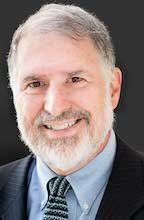
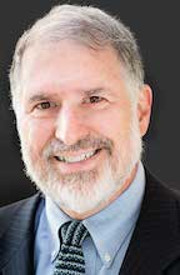
add pictures, resize some to 180hrz, change png to jpg

diff --git a/meetings.md b/meetings.md
@@ -14,7 +14,7 @@ Join the CENTRA Kickoff Meeting [Forum Discussions](https://groups.google.com/fo
 
 ## Kickoff meeting attendees
 
-<img src="/img/members/alejandroballado.png" class="member-image">
+<img src="/img/members/alejandroballado.jpg" class="member-image">
 <span class="member-heading">
 <strong>Alejandro H. Ballado, Jr.</strong><br>
 Mapua Institute of Technology<br>
@@ -35,13 +35,16 @@ Research Interests:</span> biological museum data processing, biodiversity model
 
 I originally trained as a tree breeding systems biologist and studied in a Costa Rican rainforest. In the mid-1980s, I shifted career direction to the emerging field of biodiversity informatics with an emphasis on museum collection computerization and networked data communications. Today, I guide a biodiversity software engineering group within the University of Kansas Biodiversity Institute.  We produce and support open-source 'Specify' software for computerizing biological collections (specifysoftware.org).  I also direct the Lifemapper Project which includes a high-performance computation platform and web services for species distribution and macroecological modeling, and for metacommunity phylogenetics (lifemapper.org).
 
+<img src="/img/members/linhuangchang.jpg" class="member-image">
 <span class="member-heading">
 <strong>Lin-huang Chang</strong><br>
 National Taichung Univ.<br>
 <a href="mailto:lchang@mail.ntcu.edu.tw">lchang@mail.ntcu.edu.tw</a><br>
 Research Interests:</span> Software-defined networking
 
-my researches are in SDN, Wireless sensor networks
+my researches are in SDN, Wireless sensor networks 
+
+<p> &nbsp;</p>
 
 <img src="/img/members/lingjyhchen.jpg" class="member-image">
 <span class="member-heading">
@@ -53,6 +56,7 @@ Research Interests:</span> participatory urban sensing; networked sensing system
 
 Dr. Ling-Jyh Chen received the B.Ed. degree in information and computer education from National Taiwan Normal University in 1998, and the M.S. and Ph.D. degrees in computer science from University of California at Los Angeles in 2002 and 2005 respectively. He joined the Institute of Information Science of Academia Sinica as Assistant Research Fellow in 2005, and became an Associate Research Fellow in 2011. His research interests are networked sensing systems, wireless and mobile networks, mobile computing, and social computing. His current research projects are comfort measuring system (CMS) of Taipei bus systems and micro-air pollution sensing systems (MAPS).
 
+<img src="/img/members/yjchen.jpg" class="member-image">
 <span class="member-heading">
 <strong>Yen-Jong Chen (陳彥仲)</strong><br>
 National Cheng Kung University (成功大學), Taiwan<br>
@@ -110,6 +114,7 @@ ACIS, University of Florida<br>
 
 I am a computer scientist and engineer teaching at the University of Florida. I am also the Director of the Advanced Computing and Information Systems (ACIS) lab. My research interests are in the areas of distributed computing, autonomic computing, computer architecture, parallel processing and fault-tolerant computing. I have also worked extensively in the development of e-science cyberinfrastructures, including PUNCH, Nanohub, FutureGrid and iDigBio. Currently, I am particularly interested in all aspects of software-defined systems and how they introduce new questions in the above-listed areas. Transnational contexts are of particular interest to me because they bring out the need for collaborative autonomics across software stacks that are deep and/or distributed among different administrative domains.
 
+<img src="/img/members/mingtaiha.jpg" class="member-image">
 <span class="member-heading">
 <strong>Ming Tai Ha</strong><br>
 Rutgers University<br>
@@ -138,6 +143,7 @@ Research Interests:</span> Computer vision, image processing, pattern recognitio
 
 I am a lecturer in Department of Computer Science, Faculty of Mathematics and Natural Sciences, Bogor Agricultural University (Institut Pertanian Bogor – IPB), West Java, Indonesia. My research research areas are digital image processing, computer vision, pattern recognition, computational intelligence and biodiversity informatics. Now I am head of Computational Intelligence laboratory and Computer Vision Research Group at Department of Computer Science IPB. Currently,  I have been working on Biodiversity Informatics (IPBiotics) development in IPB.
 
+<img src="/img/members/weichenghuang.jpg" class="member-image">
 <span class="member-heading">
 <strong>Weicheng Huang</strong><br>
 NCHC<br>
@@ -146,6 +152,7 @@ Research Interests:</span> big data
 
 I am Weicheng Huang, a local participant from NCHC. My specialty includes parallel processing, grid, cloud and currently big data.
 
+<img src="/img/members/julioibarra.jpg" class="member-image">
 <span class="member-heading">
 <strong>Julio Ibarra</strong><br>
 Florida International University<br>
@@ -157,7 +164,7 @@ As the Assistant Vice President for Technology Augmented Research at FIU, Dr. Ju
 
 Dr. Ibarra has been active in initiatives to advance networking and Internet technologies for the State of Florida. He is a board member of the Florida Lambda Rail, LLC – Florida’s research and education network initiative. He served on the Governor’s IT Florida Task Force subcommittee on Infrastructure and Technology Development, as a subject matter expert. He is co-author of the policy recommendation for the development of a Network Access Point (NAP) in South Florida to enhance the State’s e-Commerce opportunities with Latin America."
 
-<img src="/img/members/koheiichikawa.png" class="member-image">
+<img src="/img/members/koheiichikawa.jpg" class="member-image">
 <span class="member-heading">
 <strong>Kohei Ichikawa</strong><br>
 Nara Institute of Science and Technology<br>
@@ -167,7 +174,7 @@ Research Interests:</span> Distributed systems, Virtualization, Software Defined
 
 Kohei Ichikawa is an Associate Professor in the Graduate School of Information Science at Nara Institute of Science and Technology, Japan. His past research work involved the design and development of middleware and applications for Grid, virtualized infrastructures and Software Defined Network testbed. He currently works on the PRAGMA project, developing an international Software Defined Networking Testbed for use by the PRAGMA researchers.
 
-<img src="/img/members/shantenujha.png" class="member-image">
+<img src="/img/members/shantenujha.jpg" class="member-image">
 <span class="member-heading">
 <strong>Shantenu Jha</strong><br>
 Rutgers University<br>
@@ -180,6 +187,7 @@ University. His research interests lie at the triple point of High-performance d
 standards-driven and abstractions-based tools used to support
 large-scale science and engineering applications. He has won several awards at leading supercomputing conferences for the application of high-performance distributed computing to computational science. His research is supported by the US DOE and NSF, including the CAREER Award. He was appointed a Rutgers Chancellor Scholar in 2015. Away from work, Jha indulges in middle-distance running and the quest for the perfect bad joke!
 
+<img src="/img/members/shihchungjessykang.jpg" class="member-image">
 <span class="member-heading">
 <strong>Shih-Chung Jessy Kang</strong><br>
 College<br>
@@ -198,6 +206,7 @@ Research Interests:</span> SDI, testbed, IoT
 
 Eiji Kawai joined NICT in 2009 and has been conducting research on advanced networking technologies for Future Internet as director of Network Testbed R&D Laboratory. He is now interested in deployment of SDN/SDI technologies on large-scale network infrastructure for IoT applications.
 
+<img src="/img/members/yoshiyukikido.jpg" class="member-image">
 <span class="member-heading">
 <strong>Yoshiyuki Kido</strong><br>
 Osaka University<br>
@@ -212,7 +221,7 @@ He worked in RIKEN, the HPCI Program for Computational Life Science from 2012 to
 
 His research field is computer science with bioscience and his current research interests include visualization, software defined networking, high-performance computing and related information technologies.
 
-<img src="/img/members/jasonleigh.png" class="member-image">
+<img src="/img/members/jasonleigh.jpg" class="member-image">
 <span class="member-heading">
 <strong>Jason Leigh</strong><br>
 University of Hawaii at Manoa<br>
@@ -222,7 +231,7 @@ Research Interests:</span> data visualization, virtual reality, collaboration te
 
 I am a professor of Computer Science, Director of the Laboratory for Advanced Visualization and Applications (in Hawaii) and Director Emeritus of the Electronic Visualization Lab (at the University of Illinois at Chicago). My interest is in cyber-infrastructure hardware and software technologies for collaborative data visualization in science, engineering as well as in the arts and humanities. Some of my recent projects  include: the CAVE2 hybrid reality environment, SAGE and SAGE2 - Scalable Amplified Group Environment, NetSage - the network monitoring and visualization platform for National Science Foundation's International Research Network Connections program, and Articulate - an automated way to translate natural language into visualizations.
 
-<img src="/img/members/fangpanglin.png" class="member-image">
+<img src="/img/members/fangpanglin.jpg" class="member-image">
 <span class="member-heading">
 <strong>Fang-Pang Lin</strong><br>
 National Center for High-Performance Computing<br>
@@ -249,6 +258,7 @@ Research Interests:</span> HPC, IoT, Cloud Computing, Smart Cities
 
 I am currently the Knowledge Management Division Chief of the Advanced Science and Technology Institute.  I graduated from the University of the Philippines (Diliman) where I took my bachelor's degree in Electronics and Communications Engineering and Master's degree in Electrical Engineering. Two years ago, we started implementing the CoARE (Computing and Archiving Research Environment) Project where we offer general purpose virtual machines, HPC and storage services to local researchers. This year, I will be proposing a new project that deals in the areas of Big Data Analytics, IoT and Smart Cities.  As this will be a new area for us, our organization is very much open for international collaboration in the above topics. 
 
+<img src="/img/members/toshiyukimiyachi.jpg" class="member-image">
 <span class="member-heading">
 <strong>Toshiyuki Miyachi</strong><br>
 NICT<br>
@@ -298,7 +308,7 @@ Biomedical Computation Resource(NBCR) and the Pacific Rim Applications and Grid 
 
 In his spare time, Phil hikes.  And likes to say "I think I can climb that".
 
-
+<img src="/img/members/frederickkinhingphoa.jpg" class="member-image">
 <span class="member-heading">
 <strong>Frederick Kin Hing Phoa</strong><br>
 Academia Sinica<br>
@@ -328,6 +338,7 @@ Research Interests:</span> Smart cities, local (edge) clouds, IoT, Metropolitan 
 
 Glenn Ricart is founder and CTO of US Ignite, a nonprofit creating an ecosystem of innovative applications and services in smart gigabit communities enabled by software-driven infrastructure.  US Ignite brings together corporations, cities and regions, government, nonprofits, and academic to make and deploy these innovative applications and services.   Dr. Ricart is also Adjunct Professor in the School of Computing at the University of Utah. Previously, Glenn was CEO of National LambdaRail, Managing Director of PricewaterhouseCoopers, Executive Vice President and CTO of Novell during its heyday, Program Manager at DARPA, and Assistant Vice Chancellor of Academic Affairs and academic CIO at the University of Maryland.  Dr. Ricart was inducted into the Internet Hall of Fame as an Internet Pioneer in 2013. He is also the founder or co-founder of five startups raising a combined total of $190M.
 
+<img src="/img/members/cekuenshieh.jpg" class="member-image">
 <span class="member-heading">
 <strong>Ce-Kuen Shieh</strong><br>
 National Cheng-Kung University, National Center for High-performance Computing<br>
@@ -404,7 +415,7 @@ Research Interests:</span> Remote sensing, land use and land cover change, clima
 
 Hui Ping Tsai received the Ph.D. degree in geography from the University of Florida in 2012. Currently, she is a Postdoctoral Fellow with the Center for Environmental Restoration and Disaster Reduction in NCHU. Recently, she work on investigating vegetation (using NDVI as a surrogate) and climate variabilities in Taiwan and would like to assess associations between them.  
 
-<img src="/img/members/wheyfonetsai.png" class="member-image">
+<img src="/img/members/wheyfonetsai.jpg" class="member-image">
 <span class="member-heading">
 <strong>Whey-Fone Tsai</strong><br>
 National Center for High-performance Computing, National Applied Research Laboratories, Taiwan<br>
@@ -441,7 +452,7 @@ Research Interests:</span> Resource Management, Software Defined Networking
 
 Yasuhiro Watashiba is an Assistant Professor in the Graduate School of Information Science at Nara Institute of Science and Technology, Japan. He received his Ph.D. degrees from Osaka University in 2015. His current research interests include Resource Management on computing environment and related information technologies. 
 
-<img src="/img/members/nadyawilliams.png" class="member-image">
+<img src="/img/members/nadyawilliams.jpg" class="member-image">
 <span class="member-heading">
 <strong>Nadya Williams</strong><br>
 UCSD<br>
@@ -479,6 +490,7 @@ Research Interests:</span> SDN, virtualization, Edge computing, IoT
 
 Hiroaki Yamanaka received M.E. and Ph.D from Osaka University in 2008 and 2011, respectively. From 2011, he is a researcher at Network Testbed R&D Laboratory of National Institute of Information and Communications Technology (NICT). His current research work is focusing on network virtualization and OpenFlow.
 
+<img src="/img/members/mingderyang.jpg" class="member-image">
 <span class="member-heading">
 <strong>Ming-Der Yang</strong><br>
 National Chung Hsing University<br>
